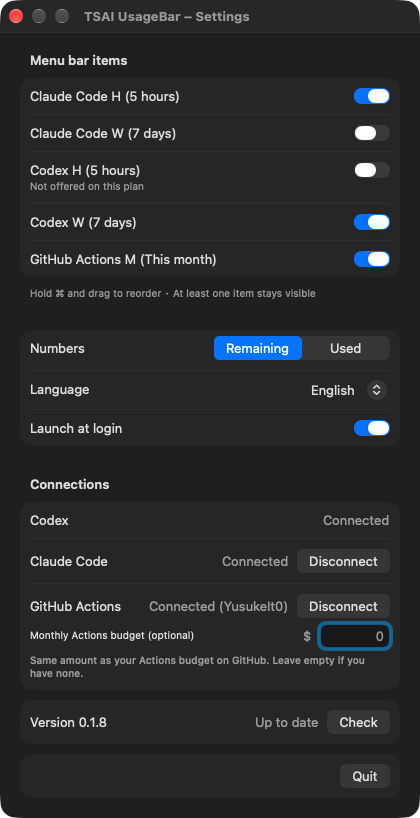
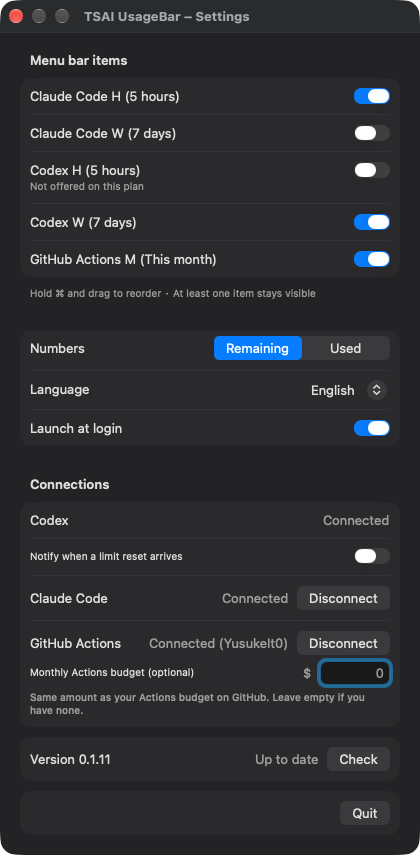
Update the README for 0.1.11 (#30)
AI-Agent: Claude Code (Opus 5.5)

diff --git a/README.md b/README.md
@@ -1,4 +1,4 @@
-# TSAI UsageBar
+# <img src="Resources/icon/AppIcon-1024.png" alt="" width="40" align="top"> TSAI UsageBar
 
 A lightweight macOS menu bar app that shows how much of your **Claude Code** and **Codex** usage limits is left and when they reset, plus your **GitHub Actions** free usage for private repositories.
 
@@ -33,6 +33,7 @@ A lightweight macOS menu bar app that shows how much of your **Claude Code** and
 - **Daily usage**: below the windows, a chart shows the last 7 days, one bar per day; ◀ ▶ step through earlier weeks.
   - Claude Code and Codex: the share of the 7-day limit used each day. These services report only current percentages, so the app records the daily increase locally, starting when you install this version (about 120 days are kept). Days before that show as empty outlines.
   - GitHub Actions: the share of the monthly allowance that private repositories used each day, from GitHub's official per-day billing data, so earlier days are available too (UTC dates).
+- Codex **limit resets** (reset credits): when you have any, the Codex panel shows how many are left and the earliest expiry. Optionally, a macOS notification tells you when a new one arrives (Settings → **Notify when a limit reset arrives**, off by default). Claude Code's data doesn't include this, so it's Codex only.
 - Windows your plan doesn't have (for example, plans without a 5-hour limit) are hidden automatically.
 - Values are never guessed. Reaching a reset time doesn't turn a value into 100%; the app waits for the next official value.
 - Languages: English, 日本語, 繁體中文, 简体中文, 한국어, Français, Deutsch and ไทย. Automatic picks the first supported macOS language (otherwise English), or choose one in Settings.
@@ -61,7 +62,7 @@ curl -fsSL https://raw.githubusercontent.com/YusukeIt0/tsai-usage-bar/main/insta
 
 ## Connect
 
-**Codex** works automatically if you've signed in to the Codex CLI. If not, the app offers **Sign in to Codex in browser**, the official Codex sign-in.
+**Codex** works automatically if you've signed in to the Codex CLI. If not, the app offers **Sign in to Codex in browser**, the official Codex sign-in. Limit-reset credits come from the same official read (`rateLimitResetCredits`); their expiry details are read only while a panel is open. Turning on reset notifications asks macOS for notification permission once; it is kept across updates.
 
 **Claude Code** sends usage limits to its official `statusLine` command. Open Settings → **Connect**. After you confirm, the app:
 
